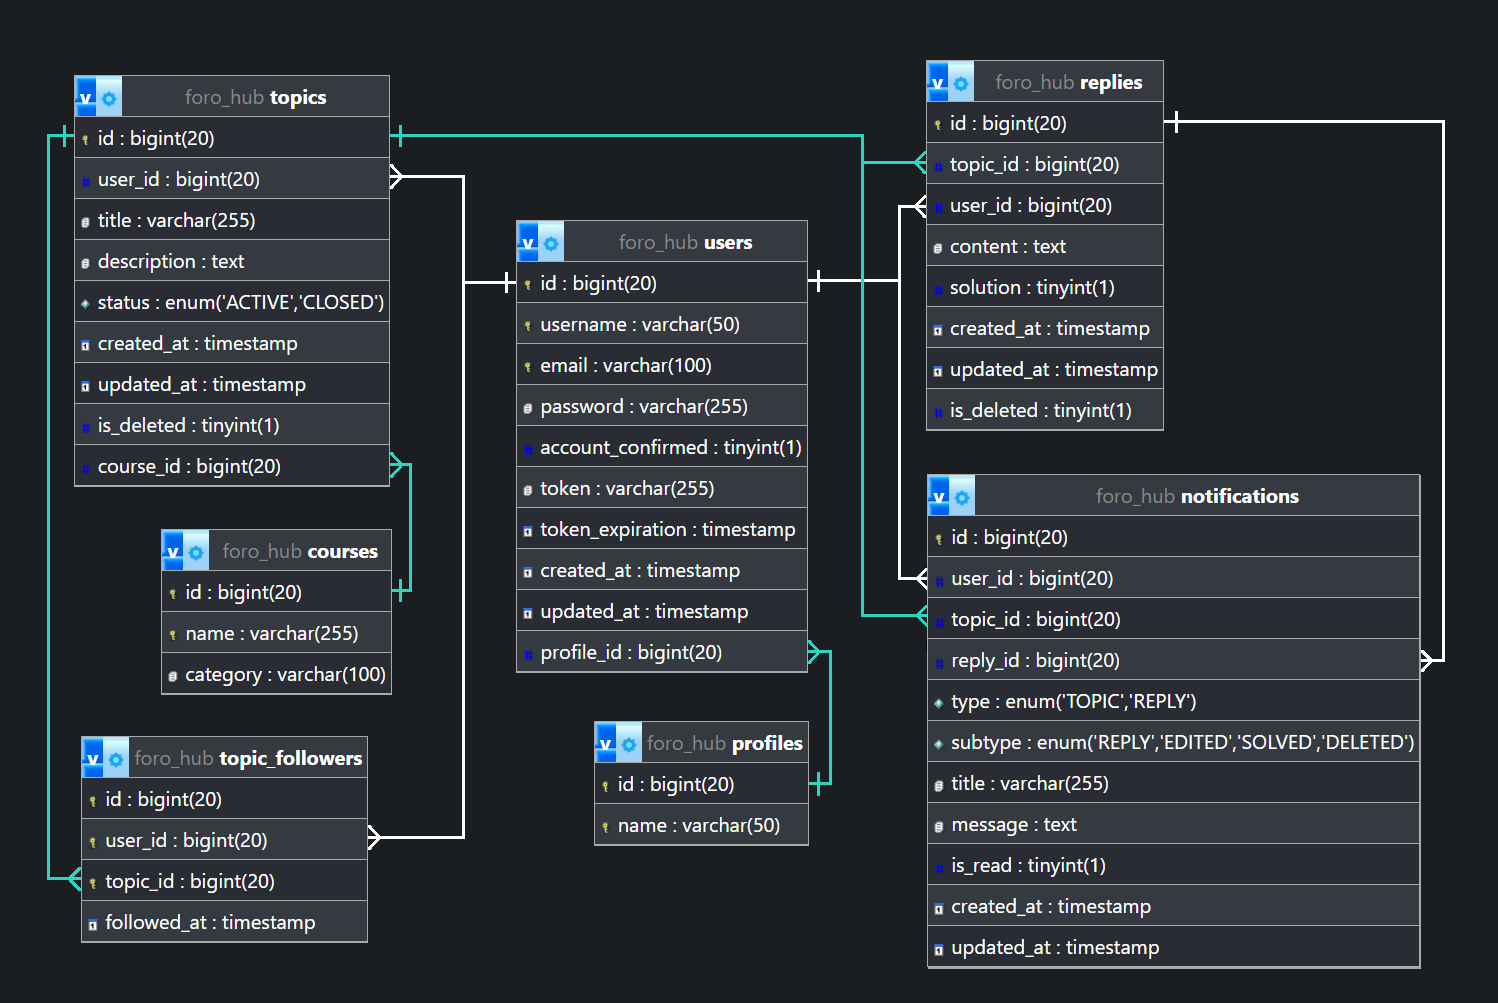
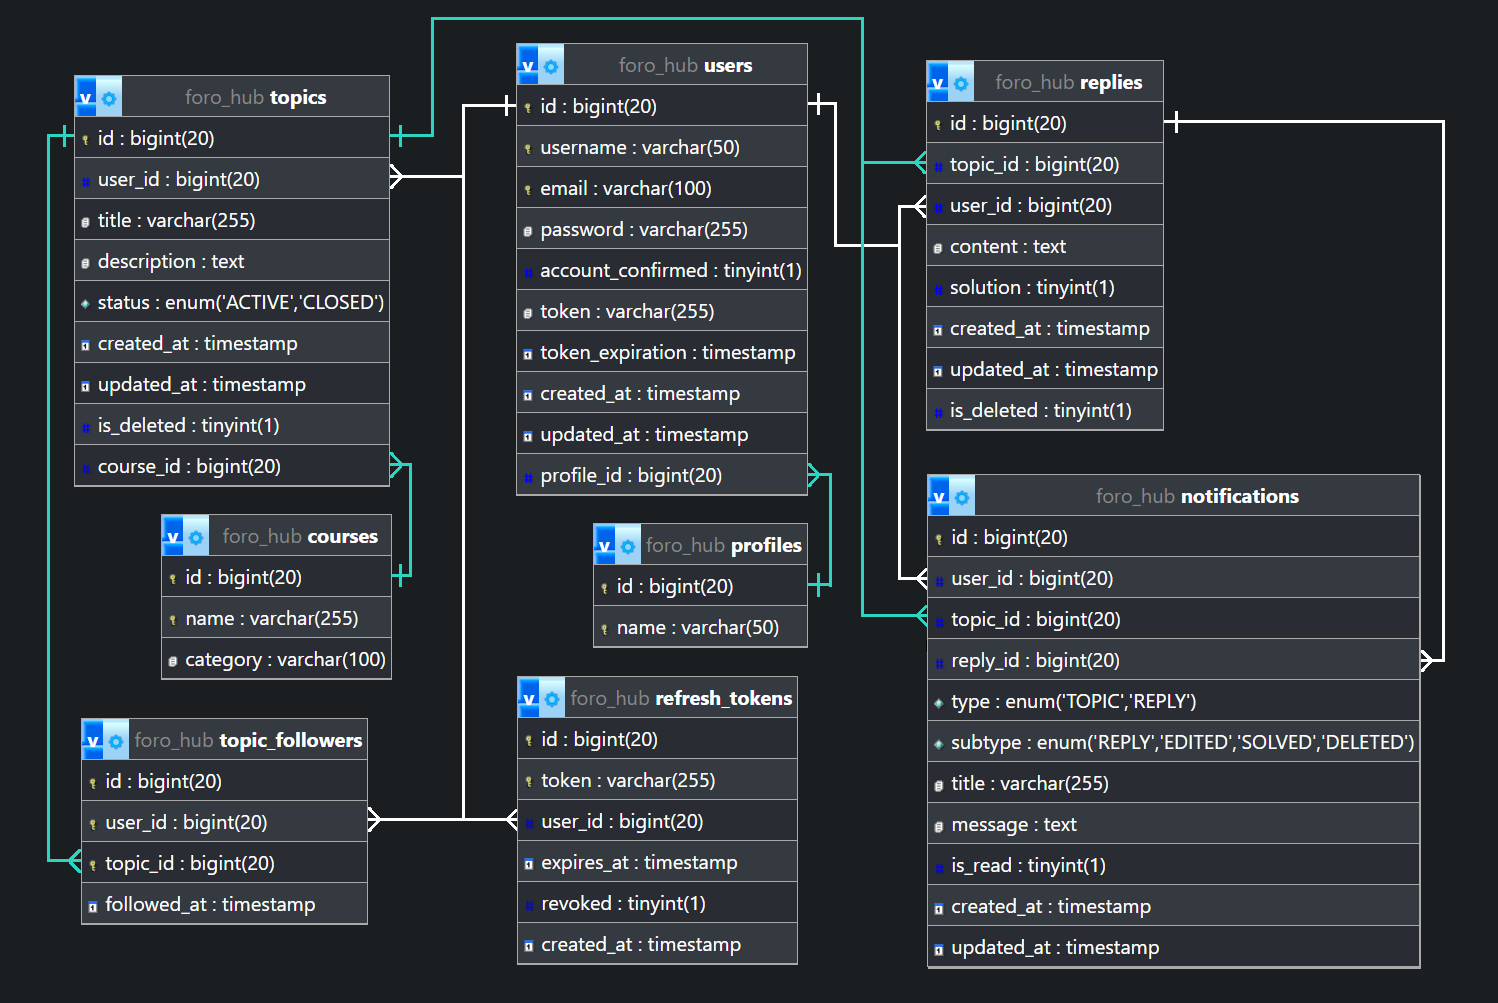
feat(auth): implement refresh token table and update auth endpoints
- Added new migration V__16 to create the refresh_tokens table.
- Created RefreshTokenEntity and updated UserService to handle refresh token logic.
- Changed refresh token generation from JWT to a secure random string.
- Updated auth endpoints:
  - /api/auth/refresh-token -> /api/auth/token/refresh
  - /api/auth/logout -> /api/auth/token/logout
- Modified UserController to match new endpoint paths.
- Updated README:
  - Documented new endpoints.
  - Added refresh_tokens table description.
  - Updated database diagram image.
- Updated ForoHub.postman_collection to include the modified endpoints.

diff --git a/src/main/java/com/williammedina/forohub/domain/user/service/UserServiceImpl.java b/src/main/java/com/williammedina/forohub/domain/user/service/UserServiceImpl.java
@@ -1,13 +1,14 @@
 package com.williammedina.forohub.domain.user.service;
 
-import com.auth0.jwt.exceptions.TokenExpiredException;
 import com.williammedina.forohub.domain.common.CommonHelperService;
 import com.williammedina.forohub.domain.contentvalidation.ContentValidationService;
 import com.williammedina.forohub.domain.reply.repository.ReplyRepository;
 import com.williammedina.forohub.domain.topic.repository.TopicRepository;
 import com.williammedina.forohub.domain.topicfollow.repository.TopicFollowRepository;
+import com.williammedina.forohub.domain.user.entity.RefreshTokenEntity;
 import com.williammedina.forohub.domain.user.entity.UserEntity;
 import com.williammedina.forohub.domain.user.dto.*;
+import com.williammedina.forohub.domain.user.repository.RefreshTokenRepository;
 import com.williammedina.forohub.domain.user.repository.UserRepository;
 import com.williammedina.forohub.domain.email.EmailService;
 import com.williammedina.forohub.infrastructure.exception.*;
@@ -31,6 +32,7 @@ import org.springframework.transaction.annotation.Transactional;
 
 import java.time.LocalDateTime;
 import java.time.temporal.ChronoUnit;
+import java.util.Optional;
 
 @Slf4j
 @Service
@@ -49,6 +51,7 @@ public class UserServiceImpl implements UserService {
     private final ContentValidationService contentValidationService;
     private final SecurityFilter securityFilter;
     private final UserTransactionService userTransactionService;
+    private final RefreshTokenRepository refreshTokenRepository;
 
     @Override
     @Transactional
@@ -68,9 +71,10 @@ public class UserServiceImpl implements UserService {
 
         // Generate authentication tokens (access and refresh)
         String accessToken = tokenService.generateAccessToken(user);
-        String refreshToken = tokenService.generateRefreshToken(user);
+        RefreshTokenEntity refreshToken = tokenService.createRefreshToken(user);
 
-        response.addCookie(createCookie("refresh_token", refreshToken, "/api/auth/refresh-token", TokenService.REFRESH_TOKEN_EXPIRATION));
+        refreshTokenRepository.save(refreshToken);
+        response.addCookie(createCookie("refresh_token", refreshToken.getToken(), "/api/auth/token", TokenService.REFRESH_TOKEN_EXPIRATION_SECONDS));
         log.info("User successfully authenticated - ID: {}", user.getId());
 
         return new JwtTokenResponse(accessToken);
@@ -235,33 +239,44 @@ public class UserServiceImpl implements UserService {
     public JwtTokenResponse refreshAccessToken(HttpServletRequest request, HttpServletResponse response) {
         log.info("Requesting refresh token");
 
-        String refreshToken = securityFilter.getTokenFromCookies(request, "refresh_token")
+        String token = securityFilter.getTokenFromCookies(request, "refresh_token")
                 .orElseThrow(() -> {
                     log.warn("Refresh token not present in cookies");
                     return new AppException("Refresh token no presente", HttpStatus.UNAUTHORIZED);
                 });
 
-        try {
-            String userId = tokenService.getSubjectFromToken(refreshToken);
-            String newAccessToken = tokenService.generateAccessToken(findUserById(Long.valueOf(userId)));
+        RefreshTokenEntity refreshToken = refreshTokenRepository.findByToken(token)
+                .orElseThrow(() -> {
+                    log.warn("Refresh token not found");
+                    return new AppException("Refresh token no encontrado", HttpStatus.UNAUTHORIZED);
+                });
 
-            log.info("New access token generated for user ID: {}", userId);
-
-            return new JwtTokenResponse(newAccessToken);
-
-        } catch (TokenExpiredException e) {
+        if (refreshToken.getRevoked() || refreshToken.getExpiresAt().isBefore(LocalDateTime.now())) {
+            refreshToken.setRevoked(true);
             log.warn("Refresh token expired");
             throw new AppException("El refresh token expiró, inicia sesión nuevamente", HttpStatus.UNAUTHORIZED);
         }
+
+        String newAccessToken = tokenService.generateAccessToken(refreshToken.getUser());
+        log.info("New access token generated for user ID: {}", refreshToken.getUser().getId());
+        return new JwtTokenResponse(newAccessToken);
     }
 
     @Override
     @Transactional
-    public MessageResponse logout(HttpServletResponse response) {
+    public MessageResponse logout(HttpServletRequest request, HttpServletResponse response) {
         UserEntity user = getAuthenticatedUser();
         log.info("Logging out user ID: {}", user.getId());
 
-        response.addCookie(deleteCookie("refresh_token", "/api/auth/refresh-token"));
+        Optional<String> token = securityFilter.getTokenFromCookies(request, "refresh_token");
+
+        token.flatMap(refreshTokenRepository::findByToken).ifPresent(rt -> {
+            rt.setRevoked(true);
+            refreshTokenRepository.save(rt);
+            log.info("Refresh token revoked for user ID: {}", user.getId());
+        });
+
+        response.addCookie(deleteCookie("refresh_token", "/api/auth/token"));
         return new MessageResponse("Sesión cerrada exitosamente.");
     }
 

diff --git a/src/main/java/com/williammedina/forohub/infrastructure/security/TokenService.java b/src/main/java/com/williammedina/forohub/infrastructure/security/TokenService.java
@@ -5,6 +5,7 @@ import com.auth0.jwt.algorithms.Algorithm;
 import com.auth0.jwt.exceptions.JWTCreationException;
 import com.auth0.jwt.exceptions.JWTVerificationException;
 import com.auth0.jwt.interfaces.DecodedJWT;
+import com.williammedina.forohub.domain.user.entity.RefreshTokenEntity;
 import com.williammedina.forohub.domain.user.entity.UserEntity;
 import lombok.extern.slf4j.Slf4j;
 import org.springframework.beans.factory.annotation.Value;
@@ -20,28 +21,24 @@ public class TokenService {
     private String jwtSecret;
 
     private static final String ISSUER = "ForoHub";
-    public static final long ACCESS_TOKEN_EXPIRATION = ( 15 ) * 60; // 15 minutes in seconds
-    public static final long REFRESH_TOKEN_EXPIRATION = ( 30 ) * 24 * 60 * 60; // 30 days in seconds
+    public static final long ACCESS_TOKEN_EXPIRATION_SECONDS = ( 15 ) * 60; // 15 minutes in seconds
+    public static final long REFRESH_TOKEN_EXPIRATION_SECONDS = ( 30 ) * 24 * 60 * 60; // 30 days in seconds
 
     private Algorithm getAlgorithm() {
         return Algorithm.HMAC256(jwtSecret);
     }
 
+    public RefreshTokenEntity createRefreshToken(UserEntity user) {
+        return new RefreshTokenEntity(user);
+    }
+
     public String generateAccessToken(UserEntity user) {
-        return generateToken(user, ACCESS_TOKEN_EXPIRATION * 1000);
-    }
-
-    public String generateRefreshToken(UserEntity user) {
-        return generateToken(user, REFRESH_TOKEN_EXPIRATION * 1000);
-    }
-
-    public String generateToken(UserEntity user, long expirationMillis) {
         try {
             return JWT.create()
                     .withIssuer(ISSUER)
                     .withSubject(String.valueOf(user.getId()))
                     .withClaim("username", user.getUsername())
-                    .withExpiresAt(new Date(System.currentTimeMillis() + expirationMillis))
+                    .withExpiresAt(new Date(System.currentTimeMillis() + ( ACCESS_TOKEN_EXPIRATION_SECONDS * 1000 )))
                     .sign(getAlgorithm());
         } catch (JWTCreationException e) {
             log.error("Error generating token for user {}: {}", user.getUsername(), e.getMessage());

diff --git a/src/main/java/com/williammedina/forohub/domain/user/entity/RefreshTokenEntity.java b/src/main/java/com/williammedina/forohub/domain/user/entity/RefreshTokenEntity.java
@@ -1,0 +1,54 @@
+package com.williammedina.forohub.domain.user.entity;
+
+import com.williammedina.forohub.infrastructure.security.TokenService;
+import jakarta.persistence.*;
+import lombok.*;
+import org.hibernate.annotations.CreationTimestamp;
+
+import java.security.SecureRandom;
+import java.time.LocalDateTime;
+import java.util.Base64;
+
+@Entity(name = "RefreshToken")
+@Table(name = "refresh_tokens")
+@Getter
+@Setter
+@NoArgsConstructor
+@AllArgsConstructor
+@ToString
+@EqualsAndHashCode(of = "id")
+public class RefreshTokenEntity {
+
+    @Id
+    @GeneratedValue(strategy = GenerationType.IDENTITY)
+    private Long id;
+
+    @Column(unique = true)
+    private String token;
+
+    @ManyToOne(fetch = FetchType.LAZY)
+    @JoinColumn(name = "user_id", nullable = false)
+    private UserEntity user;
+
+    @Column(name = "expires_at", nullable = false)
+    private LocalDateTime expiresAt;
+
+    @Column(nullable = false)
+    private Boolean revoked = false;
+
+    @Column(name = "created_at", nullable = false)
+    @CreationTimestamp
+    private LocalDateTime createdAt;
+
+    public RefreshTokenEntity(UserEntity user) {
+        this.user = user;
+        this.token = generateRefreshToken();
+        this.expiresAt = LocalDateTime.now().plusSeconds(TokenService.REFRESH_TOKEN_EXPIRATION_SECONDS);
+    }
+
+    public String generateRefreshToken() {
+        byte[] randomBytes = new byte[64];
+        new SecureRandom().nextBytes(randomBytes);
+        return Base64.getUrlEncoder().withoutPadding().encodeToString(randomBytes);
+    }
+}

diff --git a/src/main/java/com/williammedina/forohub/controller/UserController.java b/src/main/java/com/williammedina/forohub/controller/UserController.java
@@ -198,7 +198,7 @@ public class UserController {
                     @ApiResponse(responseCode = "401", description = "No autorizado - token inválido", content = @Content(schema = @Schema(implementation = ApiErrorResponse.class)))
             }
     )
-    @PostMapping("/refresh-token")
+    @PostMapping("/token/refresh")
     public ResponseEntity<JwtTokenResponse> refreshAccessToken(HttpServletRequest request, HttpServletResponse response) {
         JwtTokenResponse TokenResponse = userService.refreshAccessToken(request, response);
         return ResponseEntity.ok(TokenResponse);
@@ -213,9 +213,9 @@ public class UserController {
                     @ApiResponse(responseCode = "401", description = "No autorizado - token inválido", content = @Content(schema = @Schema(implementation = ApiErrorResponse.class)))
             }
     )
-    @PostMapping("/logout")
-    public ResponseEntity<MessageResponse> logout(HttpServletResponse response) {
-        MessageResponse TokenResponse = userService.logout(response);
+    @PostMapping("/token/logout")
+    public ResponseEntity<MessageResponse> logout(HttpServletRequest request, HttpServletResponse response) {
+        MessageResponse TokenResponse = userService.logout(request, response);
         return ResponseEntity.ok(TokenResponse);
     }
 

diff --git a/src/main/java/com/williammedina/forohub/infrastructure/security/SecurityConfigurations.java b/src/main/java/com/williammedina/forohub/infrastructure/security/SecurityConfigurations.java
@@ -35,7 +35,7 @@ public class SecurityConfigurations {
 
     public static final List<PublicEndpoint> PUBLIC_ENDPOINTS = List.of(
             new PublicEndpoint("/api/auth/login", HttpMethod.POST),
-            new PublicEndpoint("/api/auth/refresh-token", HttpMethod.POST),
+            new PublicEndpoint("/api/auth/token/refresh", HttpMethod.POST),
             new PublicEndpoint("/api/auth/create-account", HttpMethod.POST),
             new PublicEndpoint("/api/auth/request-code", HttpMethod.POST),
             new PublicEndpoint("/api/auth/forgot-password", HttpMethod.POST),

diff --git a/src/main/java/com/williammedina/forohub/domain/user/repository/RefreshTokenRepository.java b/src/main/java/com/williammedina/forohub/domain/user/repository/RefreshTokenRepository.java
@@ -1,0 +1,13 @@
+package com.williammedina.forohub.domain.user.repository;
+
+import com.williammedina.forohub.domain.user.entity.RefreshTokenEntity;
+import com.williammedina.forohub.domain.user.entity.UserEntity;
+import org.springframework.data.jpa.repository.JpaRepository;
+
+import java.util.List;
+import java.util.Optional;
+
+public interface RefreshTokenRepository extends JpaRepository<RefreshTokenEntity, Long> {
+    Optional<RefreshTokenEntity> findByToken(String token);
+    List<RefreshTokenEntity> findAllByUser(UserEntity user);
+}

diff --git a/src/main/java/com/williammedina/forohub/domain/user/entity/UserEntity.java b/src/main/java/com/williammedina/forohub/domain/user/entity/UserEntity.java
@@ -68,6 +68,9 @@ public class UserEntity implements UserDetails {
     @JoinColumn(name = "profile_id")
     private ProfileEntity profile;
 
+    @OneToMany(mappedBy = "user", cascade = CascadeType.ALL, orphanRemoval = true)
+    private List<RefreshTokenEntity> refreshTokens = new ArrayList<>();
+
     public UserEntity(String username, String email, String password) {
         this.username = username;
         this.email = email;

diff --git a/src/main/java/com/williammedina/forohub/domain/user/service/UserService.java b/src/main/java/com/williammedina/forohub/domain/user/service/UserService.java
@@ -20,6 +20,6 @@ public interface UserService {
     UserStatsDTO getUserStats();
     UserDTO getCurrentUser();
     JwtTokenResponse refreshAccessToken(HttpServletRequest request, HttpServletResponse response);
-    MessageResponse logout(HttpServletResponse response);
+    MessageResponse logout(HttpServletRequest request, HttpServletResponse response);
 
 }

diff --git a/README.md b/README.md
@@ -111,6 +111,7 @@ Este diagrama proporciona una visión clara de la estructura de datos de la apli
 - **Topic Followers**: Representa los usuarios que siguen un tópico.
 - **Notifications**: Administra las notificaciones generadas por actividades en el foro.
 - **Profiles**: Define los perfiles y roles asociados a los usuarios.
+- **RefreshTokens**: Almacena los refresh tokens generados para cada usuario, incluyendo su fecha de expiración (`expires_at`) y el estado de revocación (`revoked`). Esta tabla permite validar y revocar tokens sin depender únicamente de las cookies del cliente.
 
 Cada tabla está conectada de acuerdo con las relaciones necesarias para garantizar la consistencia de los datos.
 
@@ -292,21 +293,20 @@ A continuación, se presenta la lista completa de endpoints disponibles en la AP
 ### Endpoints de Autenticación
 Estos endpoints permiten gestionar las cuentas de usuario, desde la creación hasta la actualización de password y nombres de usuario, así como la obtención de detalles y estadísticas del usuario autenticado.
 
-| Endpoint                            | Método      | Descripción                                                                                                                |
-|-------------------------------------|-------------|----------------------------------------------------------------------------------------------------------------------------|
-| `/auth/create-account`              | `POST`      | Crea una cuenta de usuario en el sistema.                                                                                  |
-| `/auth/confirm-account/{token}`     | `GET`       | Confirma la cuenta de usuario utilizando un token proporcionado.                                                           |
-| `/auth/login`                       | `POST`      | Inicia sesión, autentica al usuario y generando un JWT de acceso y uno de actualización, almacenados en cookies HTTP-only. |
-| `/auth/request-code`                | `POST`      | Solicita un nuevo código de confirmación y lo envía al email del usuario.                                                  |
-| `/auth/forgot-password`             | `POST`      | Genera un token de restablecimiento de contraseña y lo envía al email del usuario.                                         |
-| `/auth/update-password/{token}`     | `POST`      | Permite actualizar el password utilizando un token de restablecimiento.                                                    |
-| `/auth/update-password`             | `PATCH`     | Permite al usuario autenticado actualizar su password actual.                                                              |
-| `/auth/update-username`             | `PATCH`     | Permite al usuario autenticado actualizar su nombre de usuario.                                                            |
-| `/auth/stats`                       | `GET`       | Obtiene estadísticas del usuario autenticado.                                                                              |
-| `/auth/me`                          | `GET`       | Obtiene los detalles del usuario actualmente autenticado.                                                                  |
-| `/auth/refresh-token`               | `POST`      | Genera un nuevo token de acceso utilizando el token de actualización enviado en la solicitud.                                        |
-| `/auth/logout`                      | `POST`      | Cierra la sesión del usuario eliminando los tokens de acceso y actualización de las cookies.                                    |
-
+| Endpoint                        | Método      | Descripción                                                                                                                |
+|---------------------------------|-------------|----------------------------------------------------------------------------------------------------------------------------|
+| `/auth/create-account`          | `POST`      | Crea una cuenta de usuario en el sistema.                                                                                  |
+| `/auth/confirm-account/{token}` | `GET`       | Confirma la cuenta de usuario utilizando un token proporcionado.                                                           |
+| `/auth/login`                   | `POST`      | Inicia sesión, autentica al usuario y genera un JWT de acceso (devuelto en la respuesta) y un refresh token (almacenado en cookie HTTP-only). |
+| `/auth/request-code`            | `POST`      | Solicita un nuevo código de confirmación y lo envía al email del usuario.                                                  |
+| `/auth/forgot-password`         | `POST`      | Genera un token de restablecimiento de contraseña y lo envía al email del usuario.                                         |
+| `/auth/update-password/{token}` | `POST`      | Permite actualizar la contraseña utilizando un token de restablecimiento.                                                  |
+| `/auth/update-password`         | `PATCH`     | Permite al usuario autenticado actualizar su contraseña actual.                                                            |
+| `/auth/update-username`         | `PATCH`     | Permite al usuario autenticado actualizar su nombre de usuario.                                                            |
+| `/auth/stats`                   | `GET`       | Obtiene estadísticas del usuario autenticado.                                                                              |
+| `/auth/me`                      | `GET`       | Obtiene los detalles del usuario actualmente autenticado.                                                                  |
+| `/auth/token/refresh`           | `POST`      | Genera un nuevo JWT de acceso utilizando el refresh token enviado en la cookie HTTP-only.                                   |
+| `/auth/token/logout`            | `POST`      | Cierra la sesión del usuario eliminando el refresh token de la cookie y marcando como revocado en la base de datos.         |
 ---
 ### Endpoints de Tópicos
 Estos endpoints gestionan la creación, obtención, actualización y eliminación de tópicos, así como el seguimiento de los mismos por parte de los usuarios. La eliminación de un tópico es lógica, es decir, no se elimina físicamente de la base de datos, sino que se marca como eliminado.
